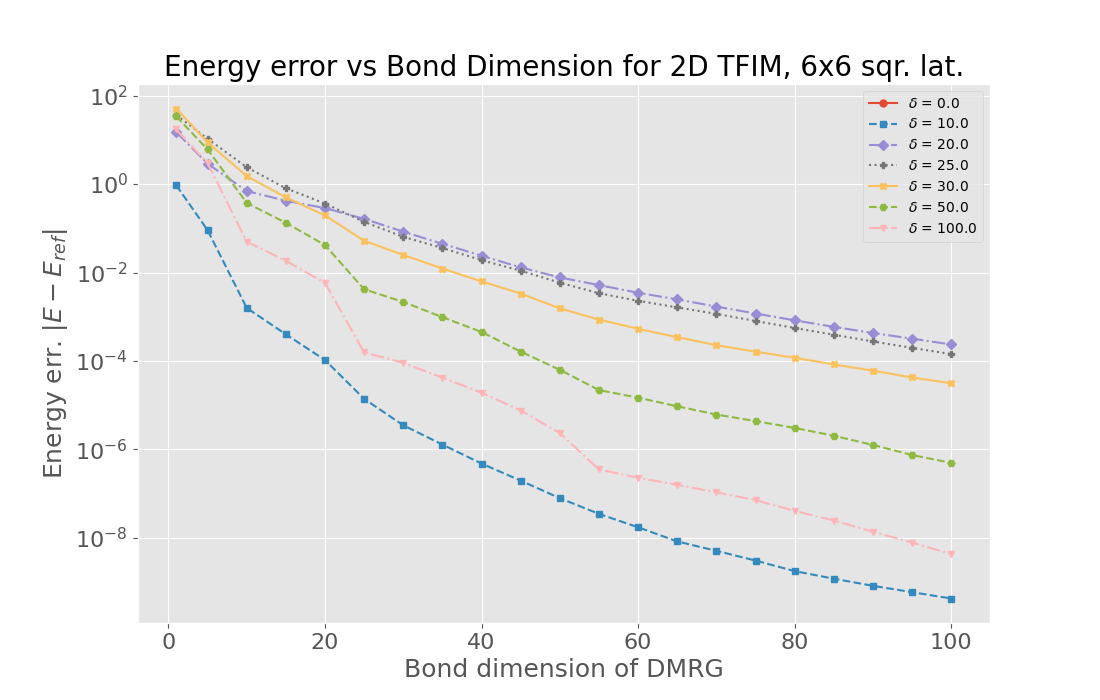
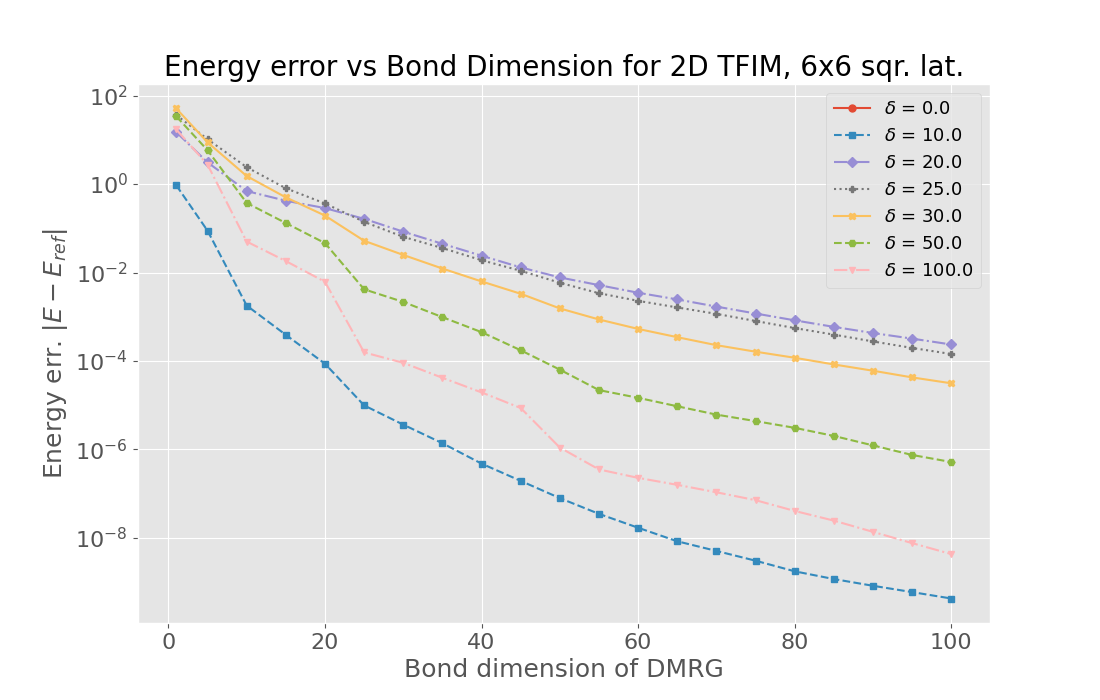
Max trunc err plots done

diff --git a/data-gen/plot_err_dim.py b/data-gen/plot_err_dim.py
@@ -31,14 +31,10 @@ def draw_plots_error_vs_maxdim(nx:int, ny:int, delta:list[float], amp_R:float=0.
             vs_value = data["errors"]
             plot_title = f"Energy error vs Bond Dimension for 2D TFIM, {nx}x{ny} sqr. lat."
             plt.ylabel("Energy err. $|E - E_{ref}|$", fontsize=18)
-        elif vs == "energy":
-            vs_value = data["energy_history"]
-            plt.title(f"Error hist vs Bond Dimension for 1D TFIM, {nx}x{ny} sqr. lat.", fontsize=20)
-            plt.ylabel("Error history", fontsize=18)
-        elif vs == "max_err":
-            vs_value = data["max_err_history"]
-            plt.title(f"Max error per swap vs Bond Dimension for 1D TFIM, {nx}x{ny} sqr. lat.", fontsize=20)
-            plt.ylabel("Max error", fontsize=18)
+        elif vs == "max_trunc_err":
+            vs_value = data["max_truncation_errors"]
+            plot_title = f"Trunc. err. vs Bond Dimension for 2D TFIM, {nx}x{ny} sqr. lat."
+            plt.ylabel("Max truncation error", fontsize=18)
         else:
             raise ValueError(f"Invalid vs value: {vs}")
 
@@ -53,8 +49,16 @@ def draw_plots_error_vs_maxdim(nx:int, ny:int, delta:list[float], amp_R:float=0.
                  markersize=5,
                 )
 
-    plt.legend(loc="upper right")
-    filename = f'imgs\{filename}_{nx}x{ny}' if amp_R == 0.0 else f'{filename}_{nx}x{ny}_per'
+    plt.legend(loc="upper right", fontsize=13)
+
+    if vs == "error":
+        filename_base = "plot_err_vs_maxdim"
+    elif vs == "max_trunc_err":
+        filename_base = "plot_trunc_err_vs_maxdim"
+    else:
+        raise ValueError(f"Invalid vs value: {vs}")
+
+    filename = f'imgs\{filename_base}_{nx}x{ny}' if amp_R == 0.0 else f'{filename_base}_{nx}x{ny}_per'
     plt.savefig(filename+".png")
     plt.show()
 
@@ -63,14 +67,16 @@ def main():
     parser.add_argument('-nx', type=int, default=4, help='Number of sites in x direction')
     parser.add_argument('-ny', type=int, default=4, help='Number of sites in y direction')
     parser.add_argument('-amp_R', type=float, default=0.0)
+    parser.add_argument('-vs', type=str, default="error", help='Variable to plot: error or max_trunc_err')
     args = parser.parse_args()
 
     amp_R = args.amp_R
     nx, ny = args.nx, args.ny
+    vs = args.vs
 
     delta = [0.0, 10.0, 20.0, 25.0, 30.0, 50.0, 100.0]
     print(f"Plot for: size = {nx}x{ny} , delta = {delta}")
-    draw_plots_error_vs_maxdim(nx, ny, delta, amp_R, vs="error")
+    draw_plots_error_vs_maxdim(nx, ny, delta, amp_R, vs=vs)
 
 if __name__ == "__main__":
     main()
